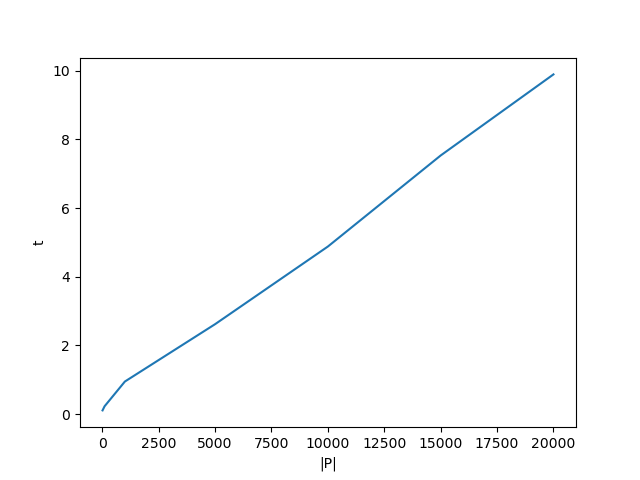
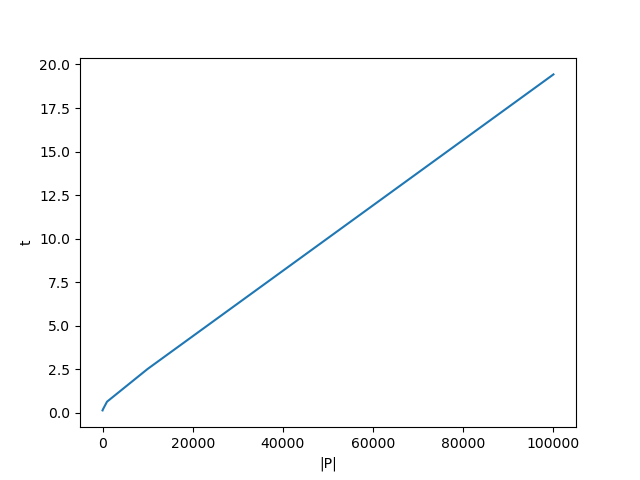
randomshit

diff --git a/src/main/MainWrapper.java b/src/main/MainWrapper.java
@@ -6,12 +6,12 @@ import java.io.IOException;
 
 public class MainWrapper {
     public static void main(String[] args) throws IOException, IllegalArgumentException {
-        if (args.length == 0 || !(new File(args[0]).exists())) {
-            throw new IllegalArgumentException("Invalid file parameter");
-        }
-
-        FileInputStream is = new FileInputStream(new File(args[0]));
+//        if (args.length == 0 || !(new File(args[0]).exists())) {
+//            throw new IllegalArgumentException("Invalid file parameter");
+//        }
+        String[] a = new String[]{"/home/juris/Uni/DBL-Algorithms/profiling/hiddetests/4pos_10000_3.0_10.0_UniformNumberGenerator@6e2c634b_UniformNumberGenerator@37a71e93RobinRobinRobinRobi.txt"};
+        FileInputStream is = new FileInputStream(new File(a[0]));
         System.setIn(is);
-        Controller.main(args);
+        Controller.main(a);
     }
 }

diff --git a/scripts/analyzer.py b/scripts/analyzer.py
@@ -8,7 +8,7 @@ import os
 # only change this directory and it should work
 # for windows people (puke) slashes might need different syntax 
 project_location = "/home/juris/Uni/DBL-Algorithms/"
-test_location = project_location + "profiling/tests/" # location of generated tests
+test_location = project_location + "profiling/hiddetests/" # location of generated tests
 class_location = project_location + "out/production/DBL-Algorithms/" # location of compiled class files
 output_location = project_location + "profiling/" # output graphs location 
 
@@ -70,4 +70,4 @@ def analyze(algo_name, output_name):
     plt.ylabel("t")
     plt.savefig(f"{output_location}{output_name}.png") 
 
-analyze("2pos", "2pos_analysis_no_processing")
+analyze("4pos", "4pos_anal")

diff --git a/src/Main.java b/src/Main.java
@@ -8,7 +8,7 @@ public class Main {
 
         // ADAPT LOCATION HERE ------------------------------------------------------------------------
         // String testCaseLocation = "/home/juris/Uni/DBL-Algorithms/TestCaseSpecification.txt";
-        String testCaseLocation = "/home/juris/Uni/DBL-Algorithms/TestCaseSpecification.txt";
+        String testCaseLocation = "/home/juris/Uni/DBL-Algorithms/hiddestests.txt";
         // ADAPT LOCATION BEFORE HERE -----------------------------------------------------------------
 
         TestReader reader = new TestReader(testCaseLocation);

diff --git a/src/algorithms/BinarySearcher.java b/src/algorithms/BinarySearcher.java
@@ -13,7 +13,7 @@ public abstract class BinarySearcher implements AbstractAlgorithmInterface {
     @Override
     public void solve(DataRecord record) {
         double[] solutionSpace = getSolutionSpace(record);
-
+        
         if (isSolvable(record, solutionSpace[solutionSpace.length - 1])) {
             getSolution(record, solutionSpace[solutionSpace.length - 1]);
             return;
